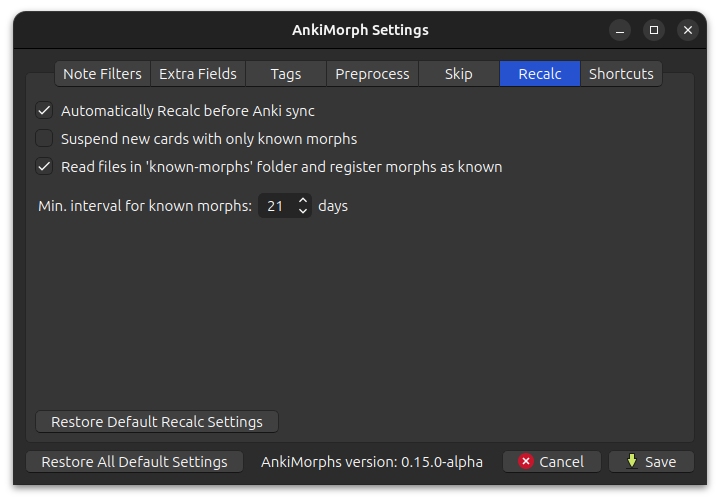
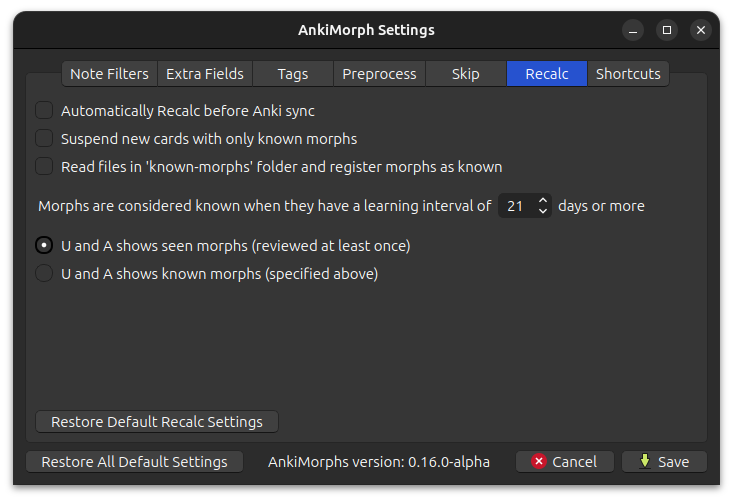
updated docs (#122)

diff --git a/docs/src/user_guide/setup/settings/recalc.md b/docs/src/user_guide/setup/settings/recalc.md
@@ -9,7 +9,14 @@
 * **Suspend new cards with only known morphs**:  
   Cards that have either the ['All morphs known' tag](tags.md) or the ['Set known and skip' tag](tags.md) will be
   suspended on Recalc.
-*  **Read files in 'known-morphs' folder and register morphs as known**:  
-   Import known morphs from the known-morphs folder. Read more in [Settings Known Morphs](../setting-known-morphs.md).
-* **Minimum interval for known morphs**:  
-  This is used when text is [highlighted](../../setup/settings/extra-fields.md#using-am-highlighted).
+* **Read files in 'known-morphs' folder and register morphs as known**:  
+  Import known morphs from the known-morphs folder. Read more in [Settings Known Morphs](../setting-known-morphs.md).
+* **Learning interval of known morphs**:  
+  This is used when text is [highlighted](../../setup/settings/extra-fields.md#using-am-highlighted), and [U and A numbers](../../installation/changes-to-anki.md#toolbar)
+  .
+* **U and A shows seen morphs**:  
+  [U and A](../../installation/changes-to-anki.md#toolbar) shows all morphs that have been reviewed at least once. This can be more motivating than
+  only seeing known morphs since it goes up every time you study new cards, but it can also give you a false sense of
+  confidence.
+* **U and A shows known morphs**:  
+  [U and A](../../installation/changes-to-anki.md#toolbar) only show known morphs (uses the `Learning interval of known morphs` setting above).
